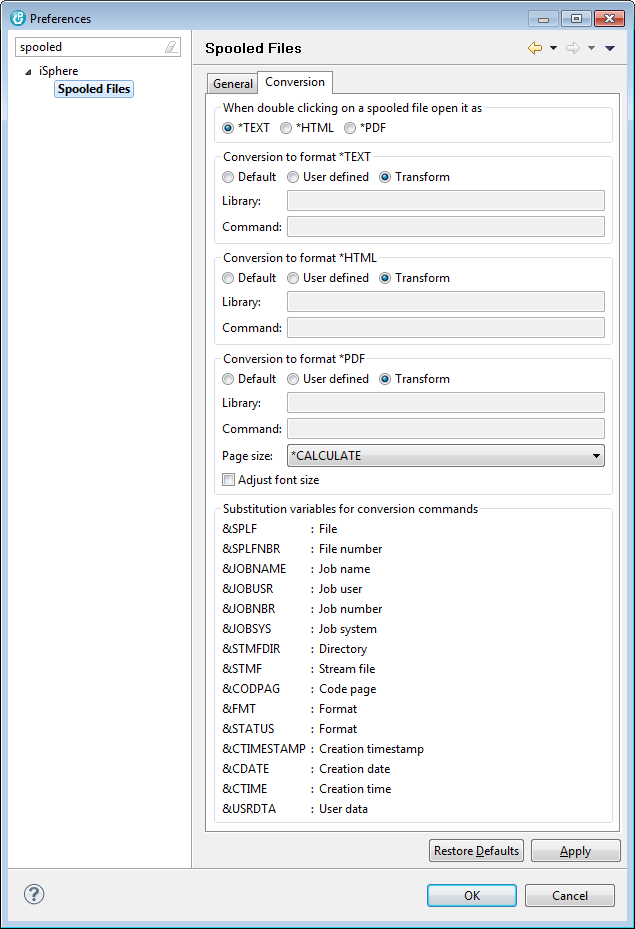
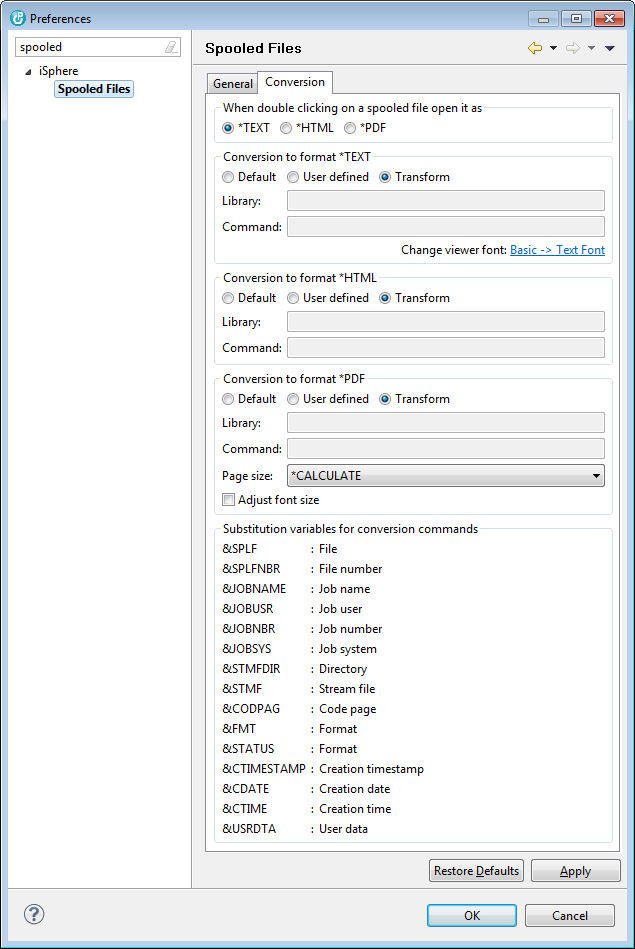
Added option to use the font size of the spooled file viewer (Color and Font: Basic -> Text Font) to compute the page size when converting a spooled file to PDF.

Changed region(s): [[0.3291, 0.0, 0.9874, 0.9989], [0.0299, 0.0, 0.2992, 0.1249], [0.0299, 0.9365, 0.0598, 0.9677]]

diff --git a/eclipse/iSphere Help Core/html/spooledfilesubsystem/preferences/preferences.html b/eclipse/iSphere Help Core/html/spooledfilesubsystem/preferences/preferences.html
@@ -112,7 +112,17 @@
 		Use the substitution variables shown at the bottom of the window to
 		specify the parameters of the command.
 	<p>	
-	<h3>Additional Option for PDF Conversion</h3>
+	<h3>Additional Options for Text Conversion</h3>
+	<p>
+	<h3>Change Viewer Font</h3>
+	<p>
+	Click <i>Change viewer font</i> to jump to the <i>Colors and Fonts</i> preference page to
+	change the font used by the spooled file viewer. Use option <i>Basic -> Text Font</i> to 
+	change the font:  
+	<p>	
+		<img src="assets/preferences_colors_and_fonts.png" align="middle">
+	<p>	
+	<h3>Additional Options for PDF Conversion</h3>
 	<p>
 	<h3>Page size</h3>
 	<p>
@@ -120,10 +130,23 @@
 	attributes. Select any other page size to use a fix page size when transforming
 	spooled files to PDF.
 	<p>
+	Select *FONT to use the font size of the spooled file viewer to compute the page
+	size.
+	<p>
 	<h3>Adjust font size</h3>
 	<p>
 	Check that option when you want iSphere to adjust the font size for best fit
 	with the page size.
+	<p>
+	<table>
+		<tr>
+			<td class="notice">Note: The font used for PDF conversion is always set 
+			                   to <i>Courier</i> and cannot easily be changed, due 
+			                   to restrictions of the external 
+			                   <a href="http://itextpdf.com" taget="_itext5"><b>iText 5</b></a> library.
+			                   At least there is no known way.</td>
+		</tr>
+	</table>
 	<p>
 		<iframe src="../../copyright.html" width="100%" frameborder="0"
 			marginheight="0" marginwidth="0"></iframe>

diff --git a/eclipse/iSphere Core Plugin/src/biz/isphere/core/preferencepages/ISphereSpooledFiles.java b/eclipse/iSphere Core Plugin/src/biz/isphere/core/preferencepages/ISphereSpooledFiles.java
@@ -30,11 +30,13 @@ import org.eclipse.swt.widgets.Composite;
 import org.eclipse.swt.widgets.Control;
 import org.eclipse.swt.widgets.Group;
 import org.eclipse.swt.widgets.Label;
+import org.eclipse.swt.widgets.Link;
 import org.eclipse.swt.widgets.TabFolder;
 import org.eclipse.swt.widgets.TabItem;
 import org.eclipse.swt.widgets.Text;
 import org.eclipse.ui.IWorkbench;
 import org.eclipse.ui.IWorkbenchPreferencePage;
+import org.eclipse.ui.dialogs.PreferencesUtil;
 
 import biz.isphere.base.internal.IntHelper;
 import biz.isphere.base.internal.StringHelper;
@@ -49,11 +51,15 @@ import biz.isphere.core.swt.widgets.WidgetFactory;
 
 public class ISphereSpooledFiles extends PreferencePage implements IWorkbenchPreferencePage {
 
+    // Tab "Conversion"
     private Button buttonDefaultFormatText;
     private Button buttonDefaultFormatHTML;
     private Button buttonDefaultFormatPDF;
     private String defaultFormat;
 
+    // Tab "Font"
+
+    // Tab "Conversion": *TEXT
     private Button buttonConversionTextDefault;
     private Button buttonConversionTextUserDefined;
     private Button buttonConversionTextTransform;
@@ -61,9 +67,10 @@ public class ISphereSpooledFiles extends PreferencePage implements IWorkbenchPre
     private Text textConversionTextLibrary;
     private Validator validatorConversionTextLibrary;
     private String conversionTextLibrary;
-
     private Text textConversionTextCommand;
     private String conversionTextCommand;
+
+    // Tab "Conversion": *HTML
     private Button buttonConversionHTMLDefault;
     private Button buttonConversionHTMLUserDefined;
     private Button buttonConversionHTMLTransform;
@@ -74,6 +81,7 @@ public class ISphereSpooledFiles extends PreferencePage implements IWorkbenchPre
     private Text textConversionHTMLCommand;
     private String conversionHTMLCommand;
 
+    // Tab "Conversion": *PDF
     private Button buttonConversionPDFDefault;
     private Button buttonConversionPDFUserDefined;
     private Button buttonConversionPDFTransform;
@@ -85,14 +93,17 @@ public class ISphereSpooledFiles extends PreferencePage implements IWorkbenchPre
     private String conversionPDFCommand;
     private Combo comboConversionPDFPageSize;
     private String conversionPDFPageSize;
-    private Button chkBoxAdjustFontSize;
+    private Button chkBoxConversionPDFAdjustFontSize;
     private boolean adjustFontSize;
-    private Combo comboSuggestedFileName;
-    private String suggestedFileName;
+    private Label labelConversionPDFUsingFontSize;
+
+    // Tab "General"
     private Button buttonLoadAsynchronously;
     private boolean isLoadAsynchronously;
     private Text textMaxNumSpooledFiles;
     private int maxNumSpooledFiles;
+    private Combo comboSuggestedFileName;
+    private String suggestedFileName;
     private Text textRSEDescription;
     private String rseDescription;
 
@@ -287,6 +298,20 @@ public class ISphereSpooledFiles extends PreferencePage implements IWorkbenchPre
         textConversionTextCommand.setLayoutData(createGroupLayoutData());
         textConversionTextCommand.setTextLimit(256);
 
+        String colorsAndFonts = Messages.bind(Messages.Change_viewer_font_Basic_Text_Font, new String[] {
+            "<a href=\"org.eclipse.ui.preferencePages.ColorsAndFonts\">", "</a>" });
+
+        Link lnkJavaTaskTags = new Link(groupConversionText, SWT.MULTI | SWT.WRAP);
+        lnkJavaTaskTags.setLayoutData(new GridData(SWT.RIGHT, SWT.CENTER, false, false, 3, 1));
+        lnkJavaTaskTags.setText(colorsAndFonts);
+        lnkJavaTaskTags.pack();
+        lnkJavaTaskTags.addSelectionListener(new SelectionAdapter() {
+            @Override
+            public void widgetSelected(SelectionEvent e) {
+                PreferencesUtil.createPreferenceDialogOn(getShell(), e.text, null, null);
+            }
+        });
+
         // Group: HTML conversion
         Group groupConversionHTML = new Group(container, SWT.NONE);
         groupConversionHTML.setText(Messages.Conversion_to_format + " *HTML");
@@ -376,7 +401,7 @@ public class ISphereSpooledFiles extends PreferencePage implements IWorkbenchPre
                 textConversionPDFLibrary.setEnabled(false);
                 textConversionPDFCommand.setEnabled(false);
                 comboConversionPDFPageSize.setEnabled(false);
-                chkBoxAdjustFontSize.setEnabled(false);
+                setPDFOptionsEnablement();
                 checkError();
             }
         });
@@ -390,7 +415,7 @@ public class ISphereSpooledFiles extends PreferencePage implements IWorkbenchPre
                 textConversionPDFLibrary.setEnabled(true);
                 textConversionPDFCommand.setEnabled(true);
                 comboConversionPDFPageSize.setEnabled(false);
-                chkBoxAdjustFontSize.setEnabled(false);
+                setPDFOptionsEnablement();
                 checkError();
             }
         });
@@ -404,7 +429,7 @@ public class ISphereSpooledFiles extends PreferencePage implements IWorkbenchPre
                 textConversionPDFLibrary.setEnabled(false);
                 textConversionPDFCommand.setEnabled(false);
                 comboConversionPDFPageSize.setEnabled(true);
-                chkBoxAdjustFontSize.setEnabled(true);
+                setPDFOptionsEnablement();
                 checkError();
             }
         });
@@ -445,24 +470,44 @@ public class ISphereSpooledFiles extends PreferencePage implements IWorkbenchPre
             @Override
             public void widgetSelected(SelectionEvent e) {
                 conversionPDFPageSize = comboConversionPDFPageSize.getText();
+                setPDFOptionsEnablement();
             }
         });
         comboConversionPDFPageSize.setLayoutData(createGroupLayoutData());
         comboConversionPDFPageSize.setItems(loadAvailablePageSizes());
 
-        chkBoxAdjustFontSize = WidgetFactory.createCheckbox(groupConversionPDF);
-        chkBoxAdjustFontSize.setText(Messages.Adjust_font_size);
-        chkBoxAdjustFontSize.addSelectionListener(new SelectionAdapter() {
+        chkBoxConversionPDFAdjustFontSize = WidgetFactory.createCheckbox(groupConversionPDF);
+        chkBoxConversionPDFAdjustFontSize.setText(Messages.Adjust_font_size);
+        chkBoxConversionPDFAdjustFontSize.addSelectionListener(new SelectionAdapter() {
             @Override
             public void widgetSelected(SelectionEvent e) {
-                adjustFontSize = chkBoxAdjustFontSize.getSelection();
+                adjustFontSize = chkBoxConversionPDFAdjustFontSize.getSelection();
             }
         });
-        chkBoxAdjustFontSize.setLayoutData(createLayoutData(3));
+        chkBoxConversionPDFAdjustFontSize.setLayoutData(createLayoutData(2));
+
+        labelConversionPDFUsingFontSize = new Label(groupConversionPDF, SWT.NONE);
+        labelConversionPDFUsingFontSize.setText(Messages.Using_font_size_of_TEXT_conversion);
 
         createGroupSubstitutionVariables(container, Messages.Substitution_variables_for_conversion_commands);
 
         return container;
+    }
+
+    private void setPDFOptionsEnablement() {
+
+        if (IPreferences.SPLF_CONVERSION_TRANSFORM.equals(conversionPDF)) {
+            if (!PageSize.PAGE_SIZE_FONT.equals(conversionPDFPageSize)) {
+                chkBoxConversionPDFAdjustFontSize.setEnabled(true);
+                labelConversionPDFUsingFontSize.setVisible(false);
+            } else {
+                chkBoxConversionPDFAdjustFontSize.setEnabled(false);
+                labelConversionPDFUsingFontSize.setVisible(true);
+            }
+        } else {
+            chkBoxConversionPDFAdjustFontSize.setEnabled(false);
+            labelConversionPDFUsingFontSize.setVisible(false);
+        }
     }
 
     private void createGroupSubstitutionVariables(Composite container, String headline) {
@@ -519,6 +564,7 @@ public class ISphereSpooledFiles extends PreferencePage implements IWorkbenchPre
 
         List<String> pagesSizesList = new ArrayList<String>();
         pagesSizesList.add(PageSize.PAGE_SIZE_CALCULATE);
+        pagesSizesList.add(PageSize.PAGE_SIZE_FONT);
         for (Iterator<PageSize> iterator = pagesSizes.iterator(); iterator.hasNext();) {
             SpooledFileTransformerPDF.PageSize pageSize = (PageSize)iterator.next();
             pagesSizesList.add(pageSize.getFormat());
@@ -802,7 +848,9 @@ public class ISphereSpooledFiles extends PreferencePage implements IWorkbenchPre
             comboConversionPDFPageSize.setText(PageSize.PAGE_SIZE_A4);
         }
 
-        chkBoxAdjustFontSize.setSelection(adjustFontSize);
+        chkBoxConversionPDFAdjustFontSize.setSelection(adjustFontSize);
+        setPDFOptionsEnablement();
+        
         comboSuggestedFileName.setText(suggestedFileName);
         textMaxNumSpooledFiles.setText(Integer.toString(maxNumSpooledFiles));
 

diff --git a/eclipse/iSphere Core Plugin/src/biz/isphere/core/spooledfiles/SpooledFileTransformerPDF.java b/eclipse/iSphere Core Plugin/src/biz/isphere/core/spooledfiles/SpooledFileTransformerPDF.java
@@ -1,5 +1,5 @@
 /*******************************************************************************
- * Copyright (c) 2012-2014 iSphere Project Owners
+ * Copyright (c) 2012-2016 iSphere Project Owners
  * All rights reserved. This program and the accompanying materials 
  * are made available under the terms of the Common Public License v1.0
  * which accompanies this distribution, and is available at
@@ -14,6 +14,8 @@ import java.io.IOException;
 import java.util.Iterator;
 import java.util.Set;
 import java.util.TreeSet;
+
+import org.eclipse.jface.resource.FontRegistry;
 
 import biz.isphere.base.internal.StringHelper;
 import biz.isphere.core.ISpherePlugin;
@@ -42,16 +44,9 @@ public class SpooledFileTransformerPDF extends AbstractSpooledFileTransformer {
     private Document document = null;
     private Font font = null;
     private Set<PageSize> pageSizesPortrait = null;
-    private boolean fitToPage = false;
 
     public SpooledFileTransformerPDF(String connectionName, SpooledFile spooledFile) {
         super(connectionName, spooledFile);
-
-        if (PageSize.PAGE_SIZE_CALCULATE.equals(Preferences.getInstance().getSpooledFilePageSize())) {
-            fitToPage = false;
-        } else {
-            fitToPage = true;
-        }
 
         pageSizesPortrait = getPageSizes_Portrait();
     }
@@ -145,7 +140,7 @@ public class SpooledFileTransformerPDF extends AbstractSpooledFileTransformer {
         return getPageSizes();
     }
 
-    private PageSize getFitToPageSize(int pageWidthInDots, int pageHeightInDots) {
+    private PageSize getPredefinedPageSize(boolean isLandscape) {
 
         PageSize fitToPageSize = null;
 
@@ -158,7 +153,7 @@ public class SpooledFileTransformerPDF extends AbstractSpooledFileTransformer {
             fitToPageSize = new PageSize(595, 842, PageSize.PAGE_SIZE_A4);
         }
 
-        if (isLandscape(pageWidthInDots, pageHeightInDots)) {
+        if (isLandscape) {
             fitToPageSize = new PageSize(fitToPageSize.getHeight(), fitToPageSize.getWidth(), fitToPageSize.getFormat());
         }
 
@@ -207,14 +202,23 @@ public class SpooledFileTransformerPDF extends AbstractSpooledFileTransformer {
     private Document createPFD(String aPath) throws FileNotFoundException, DocumentException {
 
         PageSize pageSize = null;
-        if (fitToPage) {
-            pageSize = getFitToPageSize(getPageWidthInDots(), getPageHeightInDots());
-        } else {
+        float fontSize;
+        String pageSizeId = Preferences.getInstance().getSpooledFilePageSize();
+
+        if (PageSize.PAGE_SIZE_CALCULATE.equals(pageSizeId)) {
             pageSize = findRequiredPageSize(getPageWidthInDots(), getPageHeightInDots());
+            fontSize = getFontSize(pageSize);
+        } else if (PageSize.PAGE_SIZE_FONT.equals(pageSizeId)) {
+            FontRegistry fontRegistry = ISpherePlugin.getDefault().getWorkbench().getThemeManager().getCurrentTheme().getFontRegistry();
+            fontSize = fontRegistry.get("org.eclipse.jface.textfont").getFontData()[0].getHeight();
+            pageSize = computePageSize(fontSize);
+        } else {
+            pageSize = getPredefinedPageSize(isLandscape(getPageWidthInDots(), getPageHeightInDots()));
+            fontSize = getFontSize(pageSize);
         }
 
-        float fontSize = getFontSize(pageSize);
         font = new Font(Font.FontFamily.COURIER, fontSize, Font.NORMAL, BaseColor.BLACK);
+
         PageMargins pageMargins = getPageMargins(fontSize);
 
         Document pdf = new Document();
@@ -294,6 +298,30 @@ public class SpooledFileTransformerPDF extends AbstractSpooledFileTransformer {
         }
 
         return dropDecimals(charHeight);
+    }
+
+    private PageSize computePageSize(float fontSize) {
+
+        float WIDTH_FACTOR = 1.685493827F;
+
+        PageSize spooledFilePageSize = findRequiredPageSize(getPageWidthInDots(), getPageHeightInDots());
+
+        float tCharWidth = fontSize / WIDTH_FACTOR;
+
+        float tPageWidthInDots = tCharWidth * getPageWidthInChars();
+        float tPageHeightInDots = fontSize * getPageHeightInLines();
+
+        int pageWidthInDots = (int)(tPageWidthInDots + 0.5F); // round up
+        int pageHeightInDots = (int)(tPageHeightInDots + 0.5F); // round up
+
+        float sizeFactor = (float)pageHeightInDots / (float)pageWidthInDots;
+        float suggestedSizeFactor = (float)spooledFilePageSize.getHeight() / (float)spooledFilePageSize.getWidth();
+
+        if (sizeFactor > suggestedSizeFactor) {
+            pageWidthInDots = (int)((pageHeightInDots / suggestedSizeFactor) + 0.5F);
+        }
+
+        return new PageSize(pageWidthInDots, pageHeightInDots, "*USRDEF");
     }
 
     private float dropDecimals(float charHeight) {
@@ -484,6 +512,7 @@ public class SpooledFileTransformerPDF extends AbstractSpooledFileTransformer {
 
         public static final String PAGE_SIZE_A4 = "DIN A4"; //$NON-NLS-1$
         public static final String PAGE_SIZE_CALCULATE = "*CALCULATE"; //$NON-NLS-1$
+        public static final String PAGE_SIZE_FONT = "*FONT"; //$NON-NLS-1$
 
         private String format;
         private Rectangle pageSize;
@@ -554,5 +583,4 @@ public class SpooledFileTransformerPDF extends AbstractSpooledFileTransformer {
             return format + " (width: " + pageSize.getWidth() + ", height:" + pageSize.getHeight() + ")";
         }
     }
-
 }

diff --git a/eclipse/iSphere Core Plugin/src/biz/isphere/core/ISpherePlugin.java b/eclipse/iSphere Core Plugin/src/biz/isphere/core/ISpherePlugin.java
@@ -115,6 +115,7 @@ public class ISpherePlugin extends AbstractUIPlugin {
     public static final String IMAGE_COPY_MEMBERS_TO = "copy_members_to.png";
     public static final String IMAGE_KEY_WARNING = "key_warning.gif";
     public static final String IMAGE_MESSAGE_WARNING = "message_warning.gif";
+    public static final String IMAGE_SEND_MESSAGE = "send_message.png";
 
     private static boolean searchArgumentsListEditor = false;
     private static ISearchArgumentsListEditorProvider searchArgumentsListEditorProvider = null;
@@ -268,6 +269,7 @@ public class ISpherePlugin extends AbstractUIPlugin {
         reg.put(IMAGE_COPY_MEMBERS_TO, getImageDescriptor(IMAGE_COPY_MEMBERS_TO));
         reg.put(IMAGE_KEY_WARNING, getImageDescriptor(IMAGE_KEY_WARNING));
         reg.put(IMAGE_MESSAGE_WARNING, getImageDescriptor(IMAGE_MESSAGE_WARNING));
+        reg.put(IMAGE_SEND_MESSAGE, getImageDescriptor(IMAGE_SEND_MESSAGE));
     }
 
     @CMOne(info = "Don`t change this method due to CMOne compatibility reasons")

diff --git a/eclipse/iSphere Core Plugin/src/biz/isphere/core/Messages.java b/eclipse/iSphere Core Plugin/src/biz/isphere/core/Messages.java
@@ -1265,6 +1265,10 @@ public class Messages extends NLS {
     public static String Message_too_long_warning;
 
     public static String Message_A_of_B;
+
+    public static String Change_viewer_font_Basic_Text_Font;
+
+    public static String Using_font_size_of_TEXT_conversion;
     
     /*
      * Warning messages
